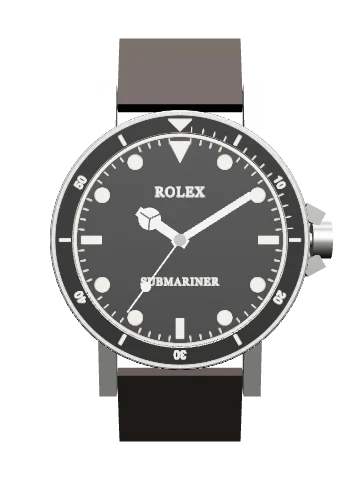
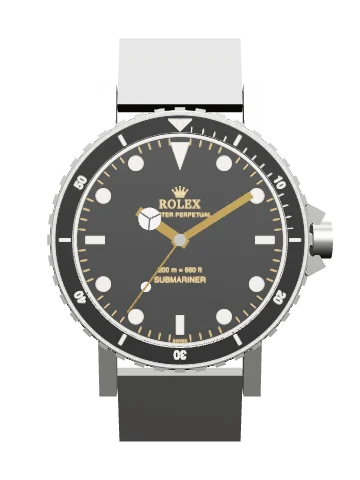
Rolex Explorer and Submariner fronts checked against photographs: coronet, full dial lettering in gilt, Swiss at the foot, bezel pearl and notched edge, gilt hands, steel bracelet

diff --git a/workbench/watches/submariner-5513.js b/workbench/watches/submariner-5513.js
@@ -15,7 +15,7 @@ export default {
     type: 'procedural',
     builder: 'round-chronograph',
     note: 'Case and crown guards are simplified. No Rolex document was available for the movement: its pivot positions are read from a watchmaker’s photographs of a stripped calibre 1560, the chronometer-grade sister of this watch’s calibre 1530, on the assumption that the two share one plate. Sizes, heights, tooth counts and outlines are estimated. Not a factory model or scan.',
-    params: { thickness: 14.5, lugToLug: 47.6, lugWidth: 20, movementDiameter: 28.5, beatsPerHour: 18000, calibre: '1530', chrono: false, dustCover: false, rotor: true, crownGuards: true, hands: 'mercedes', plate: 'steel' }
+    params: { thickness: 14.5, lugToLug: 47.6, lugWidth: 20, movementDiameter: 28.5, beatsPerHour: 18000, calibre: '1530', chrono: false, dustCover: false, rotor: true, crownGuards: true, bracelet: true, bezelGrip: 40, handKind: 'gold', hands: 'mercedes', plate: 'steel' }
   },
   images: [],
 
@@ -46,7 +46,7 @@ export default {
     { h: 'Notable variations', s: 'D', p: 'Early dials are glossy with gilt printing; matte dials with white printing followed in the later 1960s, and applied white-gold marker surrounds near the end. Some were supplied to the diving company Comex, and military-issue examples went to the Royal Navy with fixed strap bars and sword hands.' },
     { h: 'In film', s: 'D', p: 'Roger Moore’s James Bond wears a 5513 in “Live and Let Die” (1973).' },
     { h: 'How the movement was laid out', s: 'E', p: 'No Rolex technical document could be obtained, so this is a weaker source than a maker’s sheet. The positions of the barrel, the train wheels, the pallets and the balance are read from a watchmaker’s near-overhead photograph of a bare plate, published with a 2017 service write-up on mitka.co.uk, and scaled to the calibre’s 28.5 mm diameter. Each is good to about 0.5 mm. That write-up names the movement as calibre 1560 in its title and as 1530 in its text; the bridge in its photographs is engraved 1560, so it is taken to be a 1560. Calibres 1530 and 1560 belong to one family, and using this layout for the Submariner assumes that they share a plate, which has not been checked against a 1530. Which hole belongs to which wheel is read from the same watchmaker’s photograph of the train in place, and is an interpretation.' },
-    { h: 'What is estimated or left out', s: 'I', p: 'Tooth counts, wheel diameters, pinion sizes, heights and every bridge outline are estimates. The wheel that carries the seconds to the centre is drawn from the photographs, but which arbor it rides on is an interpretation. The automatic winding gears and the springs are not modelled. The model shows the early configuration, running at the calibre 1530’s 18,000 A/h. The dial artwork is a simplified two-line layout and the bezel has no luminous pearl.' }
+    { h: 'What is estimated or left out', s: 'I', p: 'Tooth counts, wheel diameters, pinion sizes, heights and every bridge outline are estimates. The wheel that carries the seconds to the centre is drawn from the photographs, but which arbor it rides on is an interpretation. The automatic winding gears and the springs are not modelled. The model shows the early configuration, running at the calibre 1530’s 18,000 A/h. The dial’s lettering follows photographs of a gilt dial of about 1963, line for line, but its typefaces and the coronet are approximations. The number of notches round the bezel is an estimate.' }
   ],
 
   components: [
@@ -57,12 +57,12 @@ export default {
       significance: 'The tall dome and its edge distortion are a large part of the vintage Submariner’s look.', related: ['bezel', 'case'] },
     { id: 'bezel', name: 'Rotating bezel', group: 'Exterior', status: 'D', anchor: [0, 18.2, 4.2], face: 1,
       beginner: 'The numbered ring that turns. Line its triangle up with the minute hand when you dive, and the minute hand then shows how long you have been down.',
-      horologist: 'Friction-fitted bezel turning in both directions, with a black anodised aluminium insert graduated to sixty and marked minute by minute for the first fifteen. The model omits the luminous pearl in the triangle.',
+      horologist: 'Friction-fitted bezel turning in both directions, with a black anodised aluminium insert graduated to sixty and marked minute by minute for the first fifteen. A luminous pearl is set in the triangle at twelve, and the edge is notched for grip; the number of notches in the model is an estimate.',
       fn: 'Measures elapsed time up to an hour.', material: 'Steel ring, aluminium insert', location: 'Around the crystal.',
       significance: 'The rotating elapsed-time bezel is the defining feature of the dive watch.', related: ['hands', 'crystal'] },
     { id: 'dial', name: 'Dial', group: 'Exterior', status: 'D', anchor: [-8, -2, 2.4], face: 1,
       beginner: 'The black face. Dots, bars and a triangle at twelve glow in the dark, and the different shapes tell you which way up the watch is.',
-      horologist: 'Black dial with luminous plots: a triangle at 12, batons at 3, 6 and 9, dots elsewhere. Early dials are gilt-printed gloss, later ones matte with white print. The text here is simplified.',
+      horologist: 'Black dial with luminous plots: a triangle at 12, batons at 3, 6 and 9, dots elsewhere. Shown as the early glossy dial with gilt printing: the coronet, ROLEX and OYSTER PERPETUAL above the centre, the depth, 200 m = 660 ft, above the name below it, as on dials of the first years, and SWISS at the foot. Later dials are matte with white print. The lettering is placed from photographs; the typefaces and the coronet are approximations.',
       fn: 'Displays the time legibly in poor light.', material: 'Painted brass, luminous compound', location: 'Under the crystal.',
       significance: 'Dial type is the main way collectors date and value a 5513.', related: ['hands', 'bezel'] },
     { id: 'hands', name: 'Hands', group: 'Exterior', status: 'D', anchor: [3, 8, 3.1], face: 1,
@@ -80,10 +80,10 @@ export default {
       horologist: 'Screw-down crown with twin gaskets, threaded onto a tube fixed in the case. Because the watch winds itself, the crown can stay locked for weeks at a time.',
       fn: 'Sets the hands, winds by hand when needed, and seals the case.', material: 'Stainless steel', location: 'Right flank, between the guards.',
       significance: 'An automatic movement and a locking crown belong together: the less the crown is opened, the better the seal.', related: ['case', 'rotor', 'barrel'] },
-    { id: 'strap', name: 'Strap', group: 'Exterior', status: 'I', anchor: [0, 28, -3], face: 0,
+    { id: 'strap', name: 'Bracelet', group: 'Exterior', status: 'I', anchor: [0, 28, -3], face: 0,
       beginner: 'What holds the watch on the wrist. Shown here as a plain stub.',
-      horologist: 'Generic strap ends, shown only so the watch sits naturally. The Oyster bracelet and its reference numbers are not represented.',
-      fn: 'Attaches the watch to the wrist.', material: 'Not specified', location: 'Between the lugs.',
+      horologist: 'The watch was sold on a steel Oyster bracelet with riveted links. Only plain steel stubs are shown; the links are not modelled.',
+      fn: 'Attaches the watch to the wrist.', material: 'Not modelled', location: 'Between the lugs.',
       significance: 'Divers often swapped the bracelet for a fabric strap long enough to go over a wetsuit.', related: ['case'] },
     { id: 'caseback', name: 'Caseback', group: 'Exterior', status: 'D', anchor: [0, 0, -6.6], face: -1,
       beginner: 'The steel lid on the back. It screws down hard against a gasket. Choose the Movement view to open it.',

diff --git a/draw.js b/draw.js
@@ -158,7 +158,7 @@ function bezel(w, g) {
     for (let a = 0; a < 360; a += 5) s += rad(a, R - 0.5, R, 't');
     s += C(R - 0.55, 0, 0, 'tn') + C(ri, 0, 0, 'p');
     const ro = R - 0.55, h = ro - ri, rm = (ro + ri) / 2;
-    s += Pa(polyD([P(-6, ro - 0.5), P(6, ro - 0.5), P(0, ri + 0.5)]), 'p');
+    s += Pa(polyD([P(-6, ro - 0.5), P(6, ro - 0.5), P(0, ri + 0.5)]), 'p') + C(h * 0.2, 0, -(ro - 0.5 - h * 0.27), 'p') + C(h * 0.11, 0, -(ro - 0.5 - h * 0.27), 't'); // the luminous pearl set in the triangle
     for (let m = 5; m < 60; m += 5) {
       const a = m * 6;
       if (m % 10 === 0) s += T(m, 0, 0, h * 0.6, 'tx bz', `transform="rotate(${a}) translate(0,${f(-rm + h * 0.21)})"`);
@@ -200,8 +200,8 @@ function markers(w, g, skip) {
   const tri = (len, wd, off = 0.7) => { const r = E(0) - off; return Pa(polyD([[f(-wd / 2), f(-r)], [f(wd / 2), f(-r)], [0, f(-r + len)]]), 'p'); };
   const each = fn => { for (let h = 0; h < 12; h++) if (!skip.has(h)) s += fn(h); };
   switch (m) {
-    case 'dive': s += ticks(); each(h => h === 0 ? tri(3.4, 3.4) : h % 3 === 0 ? bat(h, 3.2, 1.3) : (p => C(1.15, p[0], p[1], 'p'))(P(h * 30, R0 - 2.1))); break;
-    case 'explorer': s += ticks(); each(h => h === 0 ? tri(3.4, 3.4) : h % 3 === 0 ? num(h, h, R0 * 0.3, R0 * 0.72) : bat(h, 3, 0.9)); break;
+    case 'dive': s += `<g class="gt">${ticks(1.0)}</g>`; each(h => h === 0 ? tri(4.3, 2.9, 0.9) : h % 3 === 0 ? bat(h, 3.0, 1.2, 'p', 1.35) : (p => C(1.15, p[0], p[1], 'p'))(P(h * 30, R0 - 2.3))); break; // the triangle is tall and narrow, as on the watch
+    case 'explorer': s += '<g class="gt">'; for (let i = 0; i < 60; i++) s += rad(i * 6, E(i * 6) - 1.7, E(i * 6) - 0.2, 't'); s += '</g>'; each(h => h === 0 ? tri(3.3, 3.0, 2.0) : h % 3 === 0 ? num(h, h, R0 * 0.27, R0 * 0.7) : bat(h, 2.5, 0.85, 'p', 2.0)); break; // long printed minute marks at the edge, with the luminous hour marks set inside them
     case 'baton': s += ticks(); each(h => h === 0 ? dbl(2.6, 0.8) : bat(h, 2.6, 0.8)); break;
     case 'block': s += ticks(); each(h => h === 0 ? dbl(2.8, 1.3) : bat(h, 2.6, 1.7)); break;
     case 'sm300': s += ticks(); each(h => h % 3 === 0 ? num(h, h || 12, R0 * 0.25, R0 * 0.7) + bat(h, 1, 1) : bat(h, 3.6, 1.1)); break;
@@ -327,6 +327,15 @@ function dtext(w, g, o) {
   const d = w.dial, R0 = g.hl / 0.9, sz = Math.min(R0 * 0.135, 2.1) * (d.textScale || 1), y1 = -R0 * (d.textY || 0.42); // a crowded dial can ask for smaller lettering, set lower
   const low6 = (d.subs && d.subs.some(x => x[0] === 6)) || d.date === 6;
   let s = '';
+  /* A dial whose lettering has been checked line by line against photographs carries it as a set: a coronet, the lines above the centre, the lines below, and the word at the foot.
+     Places and sizes are fractions of the dial's radius, read from those photographs. The coronet is a simple five-pointed figure, not the maker's exact drawing. */
+  if (d.set && !o.redact) {
+    const q = d.set, sans = 'style="font-family:Helvetica,Arial,sans-serif" letter-spacing=".03em"';
+    if (q.crown != null) { const u = R0 * 0.075, y0 = R0 * q.crown; s += Pa(polyD([[-.55, 0], [-.95, -.7], [-.45, -.32], [-.5, -.98], [-.12, -.38], [0, -1.12], [.12, -.38], [.5, -.98], [.45, -.32], [.95, -.7], [.55, 0]].map(p => [f(p[0] * u), f(y0 + p[1] * u)])), 'k dl') + [[-.95, -.7], [-.5, -.98], [0, -1.12], [.5, -.98], [.95, -.7]].map(p => C(u * 0.1, p[0] * u, y0 + p[1] * u, 'k dl')).join('') + RC(-0.55 * u, y0 + 0.08 * u, 1.1 * u, 0.12 * u, 'k dl'); }
+    q.lines.forEach(l => { s += T(l[0].replace(/&/g, '&amp;'), 0, R0 * l[1], R0 * l[2], 'tx dl', l[3] ? sans : 'letter-spacing=".06em"'); });
+    if (q.foot) s += T(q.foot, 0, R0 - 0.12, R0 * 0.042, 'tx dl', sans);
+    return s;
+  }
   /* With registers at three and nine, the second line has to sit above their tops, or its ends run into them; the first line moves up with it. */
   const side = d.subs && d.subs.some(x => x[0] === 3 || x[0] === 9) && low6 && d.textY == null, top = -(g.inR || R0) * (d.subBig ? 0.31 : 0.235) - 0.5;
   const yb = side ? Math.min(y1 + sz * 1.3, top) : y1 + sz * 1.3, ya = side ? Math.min(y1, yb - sz * 1.2) : y1;
@@ -692,10 +701,11 @@ function face(w, real) {
   // A light dial can still carry a black bezel and dark registers (the Daytona): those keep the dark palette.
   const mixed = real && !w.dial.dark ? `${w.bezel && w.bezel.dark ? '.bzd .tn{fill:#121212;stroke:#2b2b2b}.bzd text{fill:#f0ede2}.bzd .t,.bzd .hair{stroke:#e9e6da}.bzd .bar{stroke:#e9e6da}.bzd .k{fill:#e9e6da}' : ''}${w.dial.subDark ? '.tn2{fill:#161616;stroke:#2b2b2b}' : ''}` : '';
   const gold = real && w.dial.gold ? '.nm,.cal,.dl{fill:#cfa13a}.hc{fill:#cfa13a;stroke:#4a3c16}.mw{fill:#1b2a55;stroke:#cfa13a;stroke-width:.08}.mn{fill:#e3c060;stroke:none}.t,.hair{stroke:#b08a34}.k{fill:#cfa13a}' : '';
+  const gilt = real && w.dial.gilt ? '.dl{fill:#c9a45c}.gt .t{stroke:#c9a45c}' : ''; // printing in gilt, as on the early glossy dials
   const sf = real && w.dial.subFills ? 'svg{--so:1;' + Object.entries(w.dial.subFills).map(q => `--sf${q[0]}:${q[1][0]}`).join(';') + '}' + Object.entries(w.dial.subFills).filter(q => q[1][1]).map(q => `.sk${q[0]}{stroke:#ecece8}`).join('') : ''; // each register's colour, and pale marks on the dark ones
   const pinkHands = real && w.dial.goldHands ? '.hc{fill:#cf9a78;stroke:#5a3b2a}.mw{fill:#1b2a55;stroke:#5a3b2a;stroke-width:.08}.mn{fill:#e3c060;stroke:none}' : '';
   const g3 = real && w.dial.custom === 'gyro3' ? '.g3-base{fill:#050506;stroke:none}.g3-met{fill:#5d5f63;stroke:#2f3033;stroke-width:.08}.g3-streak{stroke:#9a9c9f;stroke-width:.07}.g3-rim{fill:#c98d6b;stroke:#5a3b2a;stroke-width:.06}.g3-hole{fill:#09090a}.g3-blue{fill:#0a1340;stroke:#c98d6b;stroke-width:.06}.g3-white{fill:#f2f0e9;stroke:#8a8a86;stroke-width:.05}.g3-ink{stroke:#1a1a1a}.g3-inkf{fill:#1a1a1a;font-family:Helvetica,Arial,sans-serif}.g3-gold{fill:#dba886;stroke:#5a3b2a;stroke-width:.04}.g3-star{fill:#d5dcff}.g3-day{fill:#e3e1da;stroke:none}.g3-steel{fill:#b9bbbd;stroke:#4a4c4f;stroke-width:.07}.g3-screw{fill:#2a55a8;stroke:#0d1f45;stroke-width:.06}.g3-teeth{stroke:#c9cbcd;stroke-width:.09}.g3-sun{fill:#dba886;stroke:none}.g3-ray{stroke:#b98a64;stroke-width:.06}.g3-wt{stroke:#eef0ff}.g3-txt{fill:#e6e6e6}' : '';
-  const s = `<style>${real ? (w.dial.dark ? REAL : REAL_LIGHT) : TECH}${mixed}${gold}${pinkHands}${g3}${sf}</style><circle r="${R}" fill="${real ? '#b5b5af' : '#EDE6D8'}"/><g class="bzd">${bezel(w, g)}</g>` + dial(w, g, { noHands: true });
+  const s = `<style>${real ? (w.dial.dark ? REAL : REAL_LIGHT) : TECH}${mixed}${gold}${gilt}${pinkHands}${g3}${sf}</style><circle r="${R}" fill="${real ? '#b5b5af' : '#EDE6D8'}"/><g class="bzd">${bezel(w, g)}</g>` + dial(w, g, { noHands: true });
   // The dial is drawn once as a picture, so the date window is filled here with today's date; on the plates it is filled live.
   const today = new Date(), DAYS3 = ['SUN', 'MON', 'TUE', 'WED', 'THU', 'FRI', 'SAT'];
   const dated = s.replace(new RegExp('(data-date=""[^>]*>)', 'g'), `$1${today.getDate()}`).replace(new RegExp('(data-daydate=""[^>]*>)', 'g'), `$1${DAYS3[today.getDay()]} ${today.getDate()}`);

diff --git a/workbench/watches/explorer-1016.js b/workbench/watches/explorer-1016.js
@@ -16,7 +16,7 @@ export default {
     type: 'procedural',
     builder: 'round-chronograph',
     note: 'Case and lugs are simplified. No Rolex document was available for the movement. Its pivot positions are read from a watchmaker’s photographs of a stripped calibre 1560. Sizes, heights, tooth counts and outlines are estimated. Not a factory model or scan.',
-    params: { thickness: 12.5, lugToLug: 44, lugWidth: 20, movementDiameter: 28.5, beatsPerHour: 18000, calibre: '1530', chrono: false, dustCover: false, rotor: true, bezelInsert: false, bracelet: true, hands: 'mercedes', plate: 'steel' }
+    params: { thickness: 12.5, lugToLug: 44, lugWidth: 20, movementDiameter: 28.5, beatsPerHour: 18000, calibre: '1530', chrono: false, dustCover: false, rotor: true, bezelInsert: false, bracelet: true, handKind: 'gold', hands: 'mercedes', plate: 'steel' }
   },
   images: [],
 
@@ -46,7 +46,7 @@ export default {
     { h: 'Two movements', s: 'D', p: 'It began with the calibre 1560, beating at 18,000 an hour, and later took the calibre 1570 at 19,800. Published accounts disagree on when the change was made, and give dates from the mid 1960s to the 1970s. In the early 1970s the 1570 gained a seconds hand that stops when the crown is pulled out, so that the watch can be set exactly.' },
     { h: 'Dials', s: 'D', p: 'Early dials are glossy with gilt printing. Matte dials with white printing replaced them in the later 1960s.' },
     { h: 'How the movement was laid out', s: 'E', p: 'No Rolex technical document could be obtained, so this is a weaker source than a maker’s sheet. The positions of the barrel, the train wheels, the pallets and the balance are read from a watchmaker’s near-overhead photograph of a bare plate, published with a 2017 service write-up on mitka.co.uk, and scaled to a diameter of 28.5 mm. That write-up names the movement as calibre 1560 in its title and as 1530 in its text; in its photographs the bridge is engraved 1560 and the dial reads “Superlative Chronometer”, so it is taken to be a 1560, the Explorer’s own calibre. The six positions were measured a second time for this watch and each agrees with the model to about 0.3 mm. Which hole belongs to which wheel is read from the same watchmaker’s photographs of the train in place, and is an interpretation.' },
-    { h: 'What is estimated or left out', s: 'I', p: 'Tooth counts, wheel diameters, pinion sizes, heights and every bridge outline are estimates. The wheel that carries the seconds to the centre is drawn from the photographs, but which arbor it rides on is an interpretation. The automatic winding gears and the springs are not modelled, and the calibre’s balance and the way it is regulated are not reproduced. The model runs at the calibre 1560’s 18,000 A/h. The dial artwork is simplified and the lugs are plain blocks.' }
+    { h: 'What is estimated or left out', s: 'I', p: 'Tooth counts, wheel diameters, pinion sizes, heights and every bridge outline are estimates. The wheel that carries the seconds to the centre is drawn from the photographs, but which arbor it rides on is an interpretation. The automatic winding gears and the springs are not modelled, and the calibre’s balance and the way it is regulated are not reproduced. The model runs at the calibre 1560’s 18,000 A/h. The dial’s lettering follows photographs of a gilt dial of about 1963, line for line, but its typefaces and the coronet are approximations. The lugs are plain blocks.' }
   ],
 
   components: [
@@ -62,7 +62,7 @@ export default {
       significance: 'The absence of any scale is part of what makes the Explorer the plainest of the Rolex tool watches.', related: ['crystal', 'case'] },
     { id: 'dial', name: 'Dial', group: 'Exterior', status: 'D', anchor: [-8, -2, 2.4], face: 1,
       beginner: 'The black face, with a triangle at twelve and the numerals 3, 6 and 9. The marks glow in the dark.',
-      horologist: 'Black dial with a luminous triangle at 12, Arabic numerals at 3, 6 and 9 and batons for the other hours. Early dials are gilt-printed gloss, later ones matte with white print. The text here is simplified.',
+      horologist: 'Black dial with a luminous triangle at 12, Arabic numerals at 3, 6 and 9 and batons for the other hours. Shown as the early glossy dial with gilt printing: the coronet, ROLEX, OYSTER PERPETUAL and EXPLORER above the centre, SUPERLATIVE CHRONOMETER and OFFICIALLY CERTIFIED below it, and SWISS at the foot. Later dials are matte with white print. The lettering is placed from photographs; the typefaces and the coronet are approximations.',
       fn: 'Displays the time legibly in poor light.', material: 'Painted brass, luminous compound', location: 'Under the crystal.',
       significance: 'The 3, 6 and 9 layout is the Explorer’s signature.', related: ['hands'] },
     { id: 'hands', name: 'Hands', group: 'Exterior', status: 'D', anchor: [3, 8, 3.1], face: 1,

diff --git a/data.js b/data.js
@@ -5,7 +5,7 @@ window.WATCHES = [
 {
   id:'sub5513', brand:'Rolex', model:'Submariner', ref:'5513', year:'1962', span:'c. 1962 – 1989', kind:'Dive watch',
   c:{shape:'round', d:40, t:[14.5,'n'], lug:[20,'v']},
-  bezel:{type:'dive', w:3.6, first15:true}, dial:{dark:true, markers:'dive', text:['ROLEX','SUBMARINER']},
+  bezel:{type:'dive', w:3.6, first15:true}, dial:{dark:true, gilt:true, markers:'dive', text:['ROLEX','SUBMARINER'], set:{crown:-0.43, lines:[['ROLEX',-0.31,0.11,0],['OYSTER PERPETUAL',-0.225,0.056,1],['200 m = 660 ft',0.31,0.062,1],['SUBMARINER',0.41,0.072,1]], foot:'SWISS'}},
   hands:'mercedes', sec:'center', crown:{pos:3, guards:true}, strap:'oyster',
   mv:{cal:'1530, later 1520', type:'auto', vph:18000, wind:'Automatic, full rotor', note:'Cal. 1530 beats at 18,000 A/h; the later cal. 1520 at 19,800 A/h. Drawn here at the earlier rate.'},
   back:{type:'fluted', note:'Screw-down Oyster back with fluted edge.'},
@@ -27,7 +27,7 @@ window.WATCHES = [
 {
   id:'explorer1016', brand:'Rolex', model:'Explorer', ref:'1016', year:'c. 1963', span:'c. 1963 – 1989', kind:'Field watch',
   c:{shape:'round', d:36, t:[12.5,'n'], lug:[20,'v']},
-  bezel:{type:'plain', w:2.4}, dial:{dark:true, markers:'explorer', text:['ROLEX','EXPLORER']},
+  bezel:{type:'plain', w:2.4}, dial:{dark:true, gilt:true, markers:'explorer', text:['ROLEX','EXPLORER'], set:{crown:-0.5, lines:[['ROLEX',-0.385,0.11,0],['OYSTER PERPETUAL',-0.3,0.056,1],['EXPLORER',-0.215,0.082,1],['SUPERLATIVE CHRONOMETER',0.4,0.047,1],['OFFICIALLY CERTIFIED',0.465,0.047,1]], foot:'SWISS'}},
   hands:'mercedes', sec:'center', crown:{pos:3}, strap:'oyster',
   mv:{cal:'1560, later 1570', type:'auto', vph:18000, wind:'Automatic, full rotor', note:'Cal. 1560 at 18,000 A/h, succeeded by the cal. 1570 at 19,800 A/h. Drawn at the earlier rate.'},
   back:{type:'fluted', note:'Screw-down Oyster back with fluted edge.'},

diff --git a/workbench/model.js b/workbench/model.js
@@ -154,6 +154,7 @@ export function buildProcedural(watch, face, tex) {
     for (let k = 0; k < 8; k++) bezel.add(at(mk(new THREE.CylinderGeometry(1.05, 1.05, 0.4, 6).rotateX(Math.PI / 2), 'white', { edgeAngle: 20 }), br * Math.cos(A(k)), br * Math.sin(A(k)), 4.05), (sl => { sl.rotation.z = A(k) + Math.PI / 2; return sl; })(at(mk(new THREE.BoxGeometry(1.5, 0.2, 0.1), 'iron', { noEdges: true }), br * Math.cos(A(k)), br * Math.sin(A(k)), 4.3)));
   } else
   bezel.add(mk(lathe([[ri, 2.5], [R, 2.5], [R - 0.3, 3.9], [ri, 3.95], [ri, 2.5]]), CASE));
+  if (P.bezelGrip) for (let k = 0; k < P.bezelGrip; k++) { const a = k * Math.PI * 2 / P.bezelGrip, t = mk(new THREE.BoxGeometry(0.6, Math.PI * R / P.bezelGrip, 1.3), CASE, { edgeAngle: 40 }); t.position.set((R - 0.06) * Math.cos(a), (R - 0.06) * Math.sin(a), 3.2); t.rotation.z = a; bezel.add(t); } /* the notched edge a diver grips; the number of notches is an estimate */
   if (P.bezelInsert !== false) bezel.add(at(mk(new THREE.RingGeometry(ri + 0.05, R - 0.45, 128), 'face', { noEdges: true, real: { map: tex.real }, tech: { map: tex.tech } }), 0, 0, 3.97));
   assembly(bezel, 21);
   const crystal = part('crystal'), dome = [];
